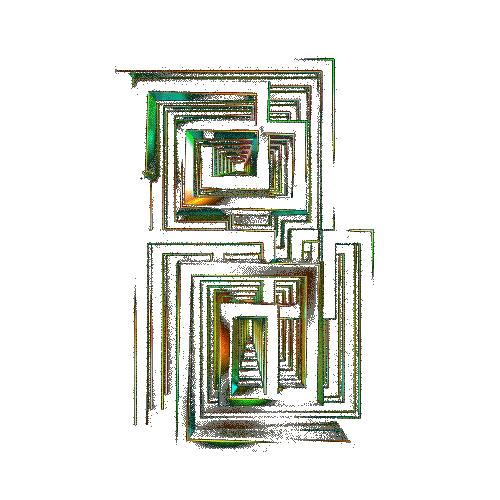
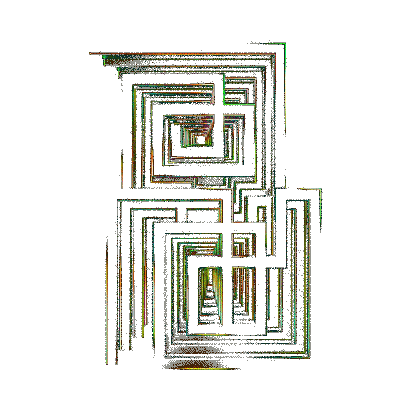
polish(seraphim): perfect compressed trio + compact fitted desk
Leaner keyed webps (~2.4MB), trioStack clarity, quieter field under
type, compact windows — refined final cut.

Changed region(s): [[0.2167, 0.0929, 0.7738, 0.8976]]

diff --git a/docs/index.html b/docs/index.html
@@ -2700,7 +2700,7 @@ html,body{
   --trio-z-b:0px;
   --trio-z-c:28px;
 }
-#bgField > .trioField{
+#bgField > .trioStack,#bgField > .trioField{
   --hub-x:50%!important;
   --hub-y:50%!important;
   --fill-w:max(100vw,100vh)!important;
@@ -2711,7 +2711,7 @@ html,body{
   perspective-origin:50% 50%!important;
   transform-style:preserve-3d!important;
 }
-#bgField > .trioField > img{
+#bgField > .trioStack > img,#bgField > .trioField > img{
   position:absolute!important;
   left:var(--hub-x)!important;
   top:var(--hub-y)!important;
@@ -2732,9 +2732,9 @@ html,body{
   -webkit-mask-image:none!important;
           mask-image:none!important;
 }
-#bgField > .trioField > img.still{ display:none!important; }
+#bgField > .trioStack > img.still,#bgField > .trioField > img.still{ display:none!important; }
 /* A field — slowest underlay */
-#bgField > .trioField > img.trioField{
+#bgField > .trioStack > img.trioField,#bgField > .trioField > img.trioField{
   opacity:.86!important; z-index:1!important;
   filter:contrast(1.5) brightness(1.05) saturate(1.15) hue-rotate(8deg)!important;
   transform:translate3d(-50%,-50%,var(--trio-z-a,-36px))
@@ -2742,7 +2742,7 @@ html,body{
             rotateZ(var(--trio-a,0deg))!important;
 }
 /* B grid — mid nest */
-#bgField > .trioField > img.trioGrid{
+#bgField > .trioStack > img.trioGrid,#bgField > .trioField > img.trioGrid{
   opacity:.92!important; z-index:2!important;
   filter:contrast(1.45) brightness(1.15) saturate(1.2)!important;
   transform:translate3d(-50%,-50%,var(--trio-z-b,0px))
@@ -2750,14 +2750,14 @@ html,body{
             rotateZ(var(--trio-b,0deg))!important;
 }
 /* C core — fastest nest */
-#bgField > .trioField > img.trioCore{
+#bgField > .trioStack > img.trioCore,#bgField > .trioField > img.trioCore{
   opacity:1!important; z-index:3!important;
   filter:contrast(1.55) brightness(1.18) saturate(1.35)!important;
   transform:translate3d(-50%,-50%,var(--trio-z-c,28px))
             rotateX(var(--trio-tilt,5deg))
             rotateZ(var(--trio-c,0deg))!important;
 }
-#bgField > .trioField::after{
+#bgField > .trioStack::after,#bgField > .trioField::after{
   content:""!important;
   position:absolute!important; inset:0!important; z-index:5!important;
   pointer-events:none!important;
@@ -2770,19 +2770,19 @@ html,body{
 #bgField .hybridA,
 #bgField .hybridB{ display:none!important; }
 @media (prefers-reduced-motion:reduce){
-  #bgField > .trioField{ perspective:none!important; }
+  #bgField > .trioStack,#bgField > .trioStack,#bgField > .trioField{ perspective:none!important; }
   #bgField > .trioField > img.trioField,
   #bgField > .trioField > img.trioGrid,
-  #bgField > .trioField > img.trioCore{
+  #bgField > .trioStack > img.trioCore,#bgField > .trioField > img.trioCore{
     transform:translate(-50%,-50%)!important;
     filter:contrast(1.45) brightness(1.05) saturate(1.15)!important;
   }
-  #bgField > .trioField > img.anim{ display:none!important; }
-  #bgField > .trioField > img.still{ display:block!important; }
-  #bgField > .trioField::after{ opacity:.9!important; }
+  #bgField > .trioStack > img.anim,#bgField > .trioField > img.anim{ display:none!important; }
+  #bgField > .trioStack > img.still,#bgField > .trioField > img.still{ display:block!important; }
+  #bgField > .trioStack::after,#bgField > .trioField::after{ opacity:.9!important; }
 }
 @media (max-width:700px){
-  #bgField > .trioField{ --hub-x:50%!important; --hub-y:50%!important; }
+  #bgField > .trioStack,#bgField > .trioField{ --hub-x:50%!important; --hub-y:50%!important; }
 }
 
 
@@ -3080,11 +3080,109 @@ html,body{
   #pasteDesk{ max-height:min(12vh, 96px)!important; min-height:48px!important; }
 }
 
+
+/* clientPerfect — refined final: compact windows, clear type, quiet field */
+:root{
+  --win-gap:8px!important;
+  --win-top:max(56px, calc(var(--safe-t) + 44px))!important;
+  --win-bot:max(8px, calc(var(--safe-b) + 8px))!important;
+  --win-side:max(10px, 2vw)!important;
+  --win-w:min(300px, calc((100vw - 28px) / 2))!important;
+}
+#bgField > .trioStack,
+#bgField > .trioField{
+  overflow:hidden!important;
+}
+#bgField > .trioStack > img.trioField,
+#bgField > .trioField > img.trioField{ opacity:.78!important; }
+#bgField > .trioStack > img.trioGrid,
+#bgField > .trioField > img.trioGrid{ opacity:.84!important; }
+#bgField > .trioStack > img.trioCore,
+#bgField > .trioField > img.trioCore{ opacity:.96!important; }
+#bgField > .trioStack::after,
+#bgField > .trioField::after{
+  background:radial-gradient(ellipse 88% 82% at 50% 48%, transparent 58%, rgba(0,0,0,.22) 100%)!important;
+  opacity:.5!important;
+}
+
+#top{
+  padding:.22rem .7rem!important;
+  max-width:min(380px, calc(100vw - 20px))!important;
+  background:rgba(2,6,14,.88)!important;
+}
+#top .title{
+  font-size:.64rem!important;
+  letter-spacing:.2em!important;
+}
+#top .metrics{ font-size:.52rem!important; }
+
+#uploadBox,
+#trayAdmit,
+#trayRelease{
+  border-radius:14px!important;
+  padding:0!important;
+}
+#uploadBox{
+  max-height:var(--win-h-full)!important;
+}
+#uploadBox .uh,
+#trayAdmit h3,
+#trayRelease h3{
+  font-size:.58rem!important;
+  letter-spacing:.12em!important;
+  padding-left:2.6rem!important;
+}
+#uploadBox .dropHint{
+  font-size:.54rem!important;
+  padding:.35rem .4rem!important;
+  margin:.35rem var(--px-pad-x,12px) .3rem!important;
+}
+#uploadBox .actions{
+  gap:.4rem!important;
+  margin:0 var(--px-pad-x,12px) .25rem!important;
+}
+#uploadBox .actions .filebtn,
+#uploadBox .actions button,
+#uploadBox .actions select,
+.folderExport button{
+  font-size:.52rem!important;
+}
+#uploadBox textarea,
+#pasteDesk{
+  font-size:.56rem!important;
+  min-height:52px!important;
+  max-height:min(16vh,120px)!important;
+  margin:0 var(--px-pad-x,12px) .45rem!important;
+  width:calc(100% - 24px)!important;
+}
+#sortedFigures .chipFig{
+  font-size:.54rem!important;
+  line-height:1.35!important;
+}
+.folderExport{
+  margin:0 10px .2rem!important;
+}
+.folderExport button{
+  padding:.12rem .35rem!important;
+  font-size:.48rem!important;
+}
+#figAdmit, #figRelease, #uploadBox .chips{
+  padding:0 10px 8px!important;
+}
+
+@media (max-width:900px){
+  :root{
+    --win-w:calc(100vw - 14px)!important;
+  }
+  #uploadBox .dropHint{ display:none!important; }
+  #uploadBox textarea, #pasteDesk{ max-height:min(10vh,72px)!important; min-height:40px!important; }
+}
+
 </style>
 </head>
 <body>
-<div id="bgField" aria-hidden="true"><!-- clientWindowsFit|clientLegible|clientAutoExport|clientTrioOnly: trio-field + trio-grid + trio-core -->
-  <div class="trioField" aria-hidden="true">
+<div id="bgField" aria-hidden="true"><!-- clientPerfect|clientWindowsFit|clientLegible|clientAutoExport|clientTrioOnly: trio-field + trio-grid + trio-core -->
+  <div class="trioStack" aria-hidden="true">
     <img class="trioField anim" src="media/trio-field-keyed.webp" alt="" width="500" height="500" decoding="async" fetchpriority="high">
     <img class="trioField still" src="media/trio-field-keyed.png" alt="" width="500" height="500" decoding="async">
     <img class="trioGrid anim" src="media/trio-grid-keyed.webp" alt="" width="500" height="500" decoding="async" fetchpriority="high">

diff --git a/standalone.html b/standalone.html
@@ -2700,7 +2700,7 @@ html,body{
   --trio-z-b:0px;
   --trio-z-c:28px;
 }
-#bgField > .trioField{
+#bgField > .trioStack,#bgField > .trioField{
   --hub-x:50%!important;
   --hub-y:50%!important;
   --fill-w:max(100vw,100vh)!important;
@@ -2711,7 +2711,7 @@ html,body{
   perspective-origin:50% 50%!important;
   transform-style:preserve-3d!important;
 }
-#bgField > .trioField > img{
+#bgField > .trioStack > img,#bgField > .trioField > img{
   position:absolute!important;
   left:var(--hub-x)!important;
   top:var(--hub-y)!important;
@@ -2732,9 +2732,9 @@ html,body{
   -webkit-mask-image:none!important;
           mask-image:none!important;
 }
-#bgField > .trioField > img.still{ display:none!important; }
+#bgField > .trioStack > img.still,#bgField > .trioField > img.still{ display:none!important; }
 /* A field — slowest underlay */
-#bgField > .trioField > img.trioField{
+#bgField > .trioStack > img.trioField,#bgField > .trioField > img.trioField{
   opacity:.86!important; z-index:1!important;
   filter:contrast(1.5) brightness(1.05) saturate(1.15) hue-rotate(8deg)!important;
   transform:translate3d(-50%,-50%,var(--trio-z-a,-36px))
@@ -2742,7 +2742,7 @@ html,body{
             rotateZ(var(--trio-a,0deg))!important;
 }
 /* B grid — mid nest */
-#bgField > .trioField > img.trioGrid{
+#bgField > .trioStack > img.trioGrid,#bgField > .trioField > img.trioGrid{
   opacity:.92!important; z-index:2!important;
   filter:contrast(1.45) brightness(1.15) saturate(1.2)!important;
   transform:translate3d(-50%,-50%,var(--trio-z-b,0px))
@@ -2750,14 +2750,14 @@ html,body{
             rotateZ(var(--trio-b,0deg))!important;
 }
 /* C core — fastest nest */
-#bgField > .trioField > img.trioCore{
+#bgField > .trioStack > img.trioCore,#bgField > .trioField > img.trioCore{
   opacity:1!important; z-index:3!important;
   filter:contrast(1.55) brightness(1.18) saturate(1.35)!important;
   transform:translate3d(-50%,-50%,var(--trio-z-c,28px))
             rotateX(var(--trio-tilt,5deg))
             rotateZ(var(--trio-c,0deg))!important;
 }
-#bgField > .trioField::after{
+#bgField > .trioStack::after,#bgField > .trioField::after{
   content:""!important;
   position:absolute!important; inset:0!important; z-index:5!important;
   pointer-events:none!important;
@@ -2770,19 +2770,19 @@ html,body{
 #bgField .hybridA,
 #bgField .hybridB{ display:none!important; }
 @media (prefers-reduced-motion:reduce){
-  #bgField > .trioField{ perspective:none!important; }
+  #bgField > .trioStack,#bgField > .trioStack,#bgField > .trioField{ perspective:none!important; }
   #bgField > .trioField > img.trioField,
   #bgField > .trioField > img.trioGrid,
-  #bgField > .trioField > img.trioCore{
+  #bgField > .trioStack > img.trioCore,#bgField > .trioField > img.trioCore{
     transform:translate(-50%,-50%)!important;
     filter:contrast(1.45) brightness(1.05) saturate(1.15)!important;
   }
-  #bgField > .trioField > img.anim{ display:none!important; }
-  #bgField > .trioField > img.still{ display:block!important; }
-  #bgField > .trioField::after{ opacity:.9!important; }
+  #bgField > .trioStack > img.anim,#bgField > .trioField > img.anim{ display:none!important; }
+  #bgField > .trioStack > img.still,#bgField > .trioField > img.still{ display:block!important; }
+  #bgField > .trioStack::after,#bgField > .trioField::after{ opacity:.9!important; }
 }
 @media (max-width:700px){
-  #bgField > .trioField{ --hub-x:50%!important; --hub-y:50%!important; }
+  #bgField > .trioStack,#bgField > .trioField{ --hub-x:50%!important; --hub-y:50%!important; }
 }
 
 
@@ -3080,11 +3080,109 @@ html,body{
   #pasteDesk{ max-height:min(12vh, 96px)!important; min-height:48px!important; }
 }
 
+
+/* clientPerfect — refined final: compact windows, clear type, quiet field */
+:root{
+  --win-gap:8px!important;
+  --win-top:max(56px, calc(var(--safe-t) + 44px))!important;
+  --win-bot:max(8px, calc(var(--safe-b) + 8px))!important;
+  --win-side:max(10px, 2vw)!important;
+  --win-w:min(300px, calc((100vw - 28px) / 2))!important;
+}
+#bgField > .trioStack,
+#bgField > .trioField{
+  overflow:hidden!important;
+}
+#bgField > .trioStack > img.trioField,
+#bgField > .trioField > img.trioField{ opacity:.78!important; }
+#bgField > .trioStack > img.trioGrid,
+#bgField > .trioField > img.trioGrid{ opacity:.84!important; }
+#bgField > .trioStack > img.trioCore,
+#bgField > .trioField > img.trioCore{ opacity:.96!important; }
+#bgField > .trioStack::after,
+#bgField > .trioField::after{
+  background:radial-gradient(ellipse 88% 82% at 50% 48%, transparent 58%, rgba(0,0,0,.22) 100%)!important;
+  opacity:.5!important;
+}
+
+#top{
+  padding:.22rem .7rem!important;
+  max-width:min(380px, calc(100vw - 20px))!important;
+  background:rgba(2,6,14,.88)!important;
+}
+#top .title{
+  font-size:.64rem!important;
+  letter-spacing:.2em!important;
+}
+#top .metrics{ font-size:.52rem!important; }
+
+#uploadBox,
+#trayAdmit,
+#trayRelease{
+  border-radius:14px!important;
+  padding:0!important;
+}
+#uploadBox{
+  max-height:var(--win-h-full)!important;
+}
+#uploadBox .uh,
+#trayAdmit h3,
+#trayRelease h3{
+  font-size:.58rem!important;
+  letter-spacing:.12em!important;
+  padding-left:2.6rem!important;
+}
+#uploadBox .dropHint{
+  font-size:.54rem!important;
+  padding:.35rem .4rem!important;
+  margin:.35rem var(--px-pad-x,12px) .3rem!important;
+}
+#uploadBox .actions{
+  gap:.4rem!important;
+  margin:0 var(--px-pad-x,12px) .25rem!important;
+}
+#uploadBox .actions .filebtn,
+#uploadBox .actions button,
+#uploadBox .actions select,
+.folderExport button{
+  font-size:.52rem!important;
+}
+#uploadBox textarea,
+#pasteDesk{
+  font-size:.56rem!important;
+  min-height:52px!important;
+  max-height:min(16vh,120px)!important;
+  margin:0 var(--px-pad-x,12px) .45rem!important;
+  width:calc(100% - 24px)!important;
+}
+#sortedFigures .chipFig{
+  font-size:.54rem!important;
+  line-height:1.35!important;
+}
+.folderExport{
+  margin:0 10px .2rem!important;
+}
+.folderExport button{
+  padding:.12rem .35rem!important;
+  font-size:.48rem!important;
+}
+#figAdmit, #figRelease, #uploadBox .chips{
+  padding:0 10px 8px!important;
+}
+
+@media (max-width:900px){
+  :root{
+    --win-w:calc(100vw - 14px)!important;
+  }
+  #uploadBox .dropHint{ display:none!important; }
+  #uploadBox textarea, #pasteDesk{ max-height:min(10vh,72px)!important; min-height:40px!important; }
+}
+
 </style>
 </head>
 <body>
-<div id="bgField" aria-hidden="true"><!-- clientWindowsFit|clientLegible|clientAutoExport|clientTrioOnly: trio-field + trio-grid + trio-core -->
-  <div class="trioField" aria-hidden="true">
+<div id="bgField" aria-hidden="true"><!-- clientPerfect|clientWindowsFit|clientLegible|clientAutoExport|clientTrioOnly: trio-field + trio-grid + trio-core -->
+  <div class="trioStack" aria-hidden="true">
     <img class="trioField anim" src="media/trio-field-keyed.webp" alt="" width="500" height="500" decoding="async" fetchpriority="high">
     <img class="trioField still" src="media/trio-field-keyed.png" alt="" width="500" height="500" decoding="async">
     <img class="trioGrid anim" src="media/trio-grid-keyed.webp" alt="" width="500" height="500" decoding="async" fetchpriority="high">
